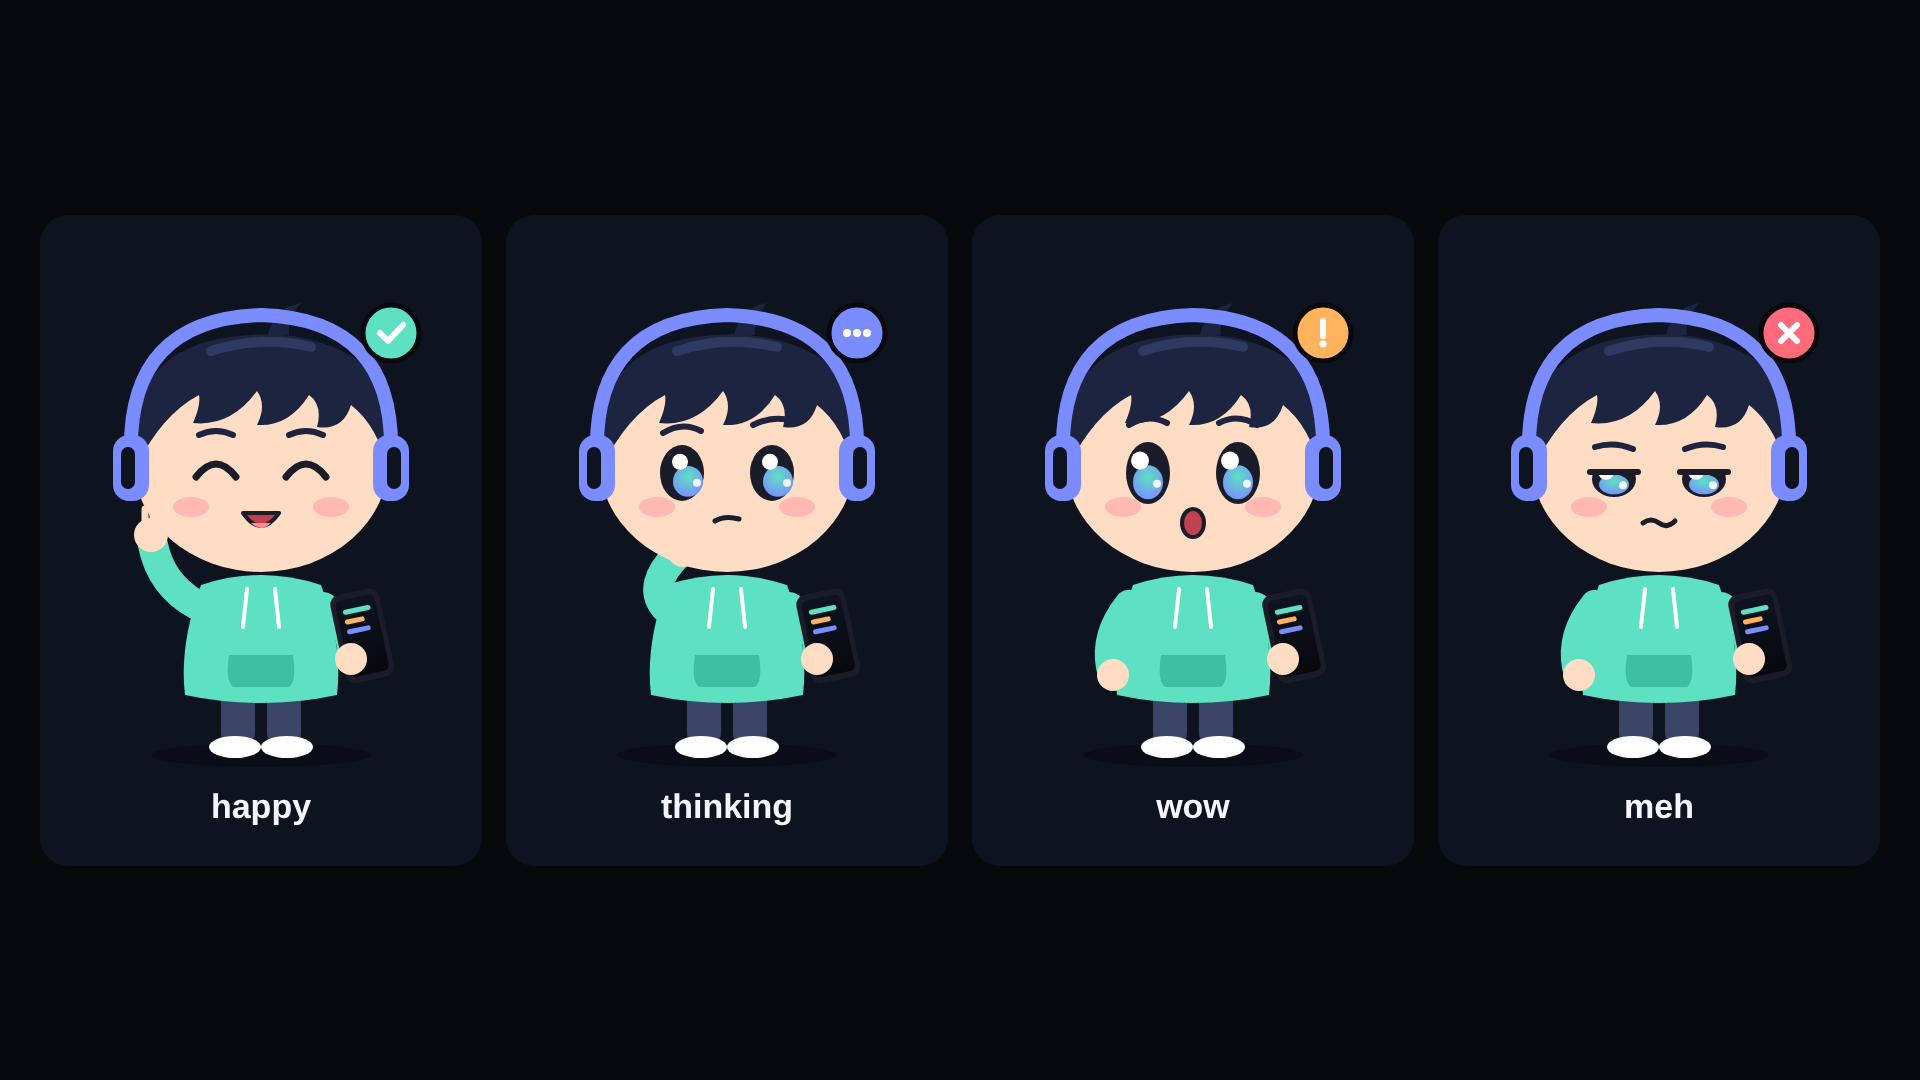
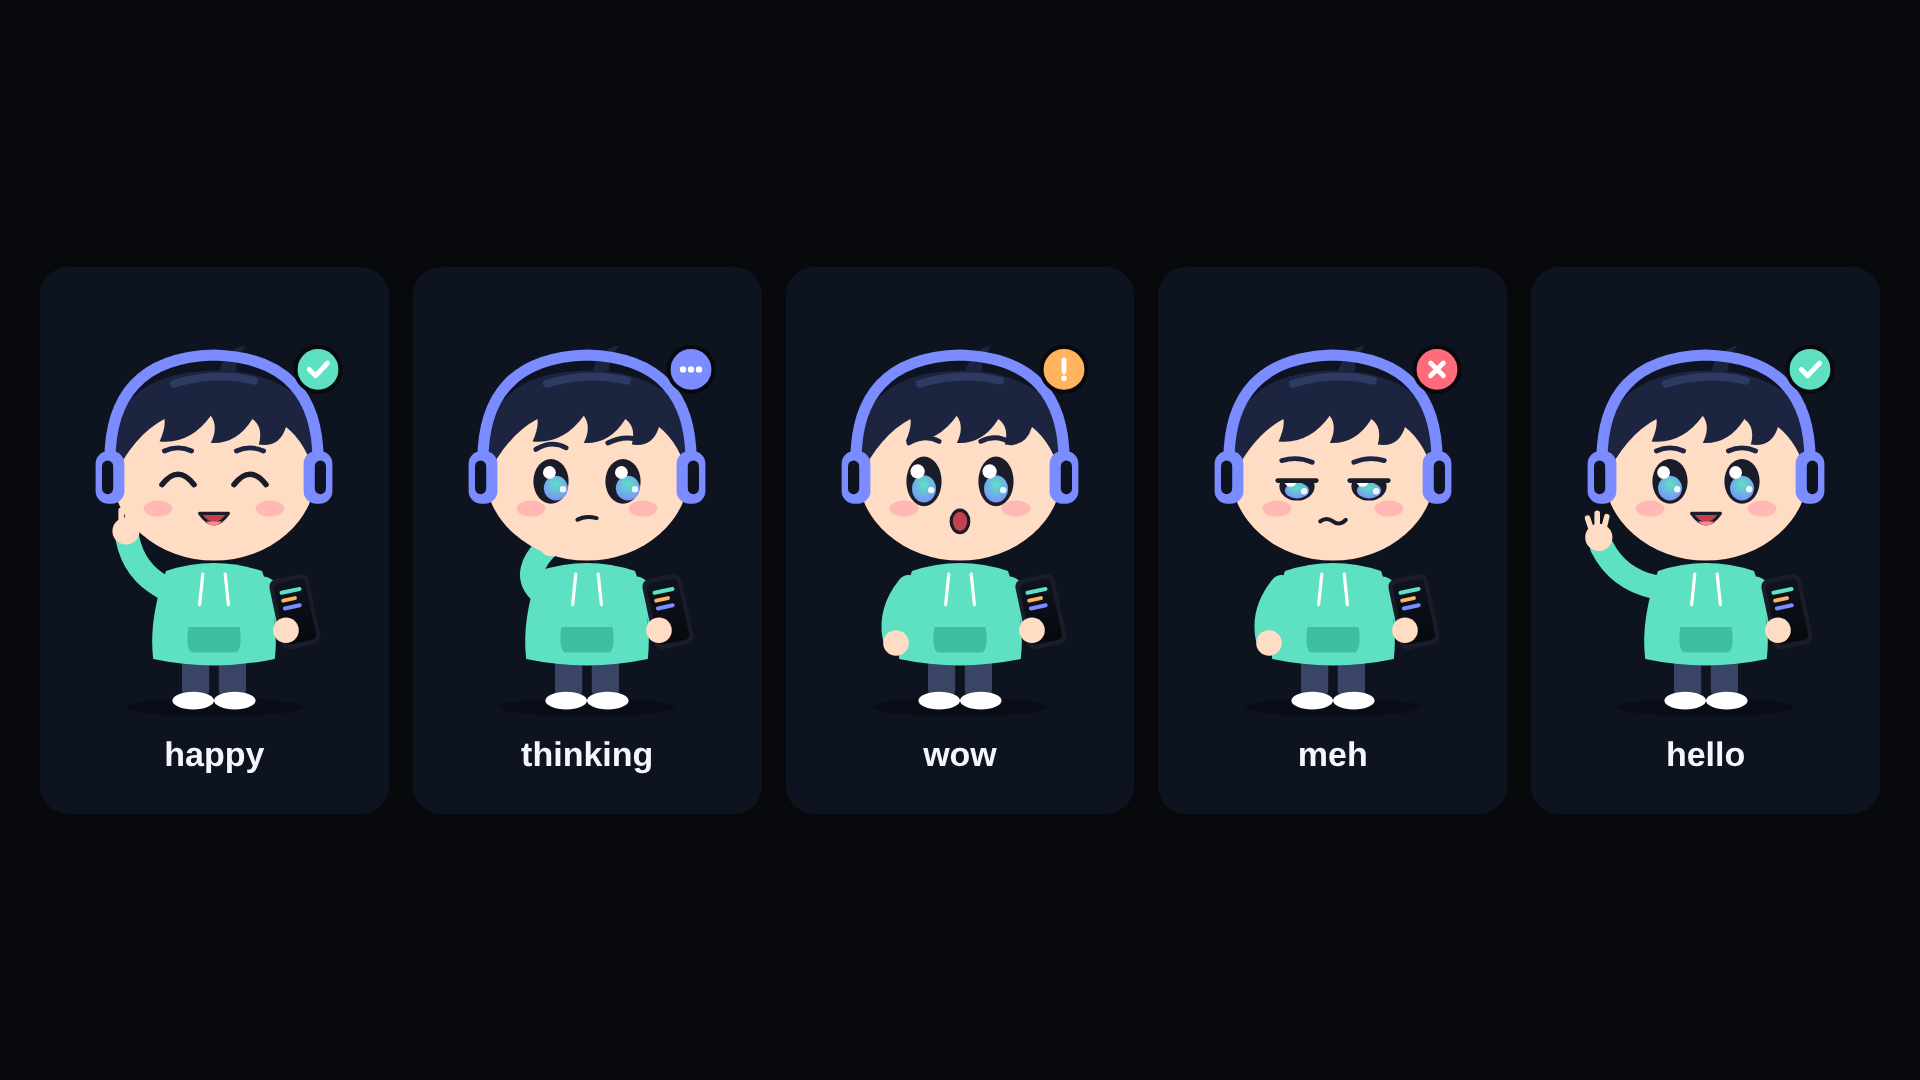
Animate mascot: blink and wave HyperFrames composition
Adds a 'hello' pose (open eyes, raised hand) and named SVG groups
(#body, #head, #free-arm, .eye) so the mascot can be animated.
video/mascot is a 6 s composition: pop-in, breathing, two waves with a
head tilt, four blinks and a 'Hi!' bubble. Generated by
scripts/make_mascot.mjs; lint and check pass.

Claude-Session: https://claude.ai/code/session_01Qtz8bHH1RiDNVd8xdByeQ3

diff --git a/video/mascot/index.html b/video/mascot/index.html
@@ -1,0 +1,143 @@
+<!doctype html>
+<html lang="en">
+  <head>
+    <meta charset="UTF-8" />
+    <meta name="viewport" content="width=1920, height=1080" />
+    <title>Mascot: blink and wave</title>
+    <!-- Generated by scripts/make_mascot.mjs; edit the generator, not this file. -->
+    <script src="vendor/gsap.min.js"></script>
+    <style>
+      @font-face { font-family: "Inter"; font-weight: 800; src: url("vendor/fonts/inter-latin-800-normal.woff2") format("woff2"); }
+      /* Brand tokens: mirror config/brand.yaml */
+      :root {
+        --bg: #07090d;
+        --bg-2: #0e1320;
+        --ink: #f4f6fb;
+        --ink-dim: #9aa3b5;
+        --accent: #5ee1c2;
+        --accent-2: #7a8cff;
+        --warn: #ffb35c;
+        --bad: #ff6b7a;
+      }
+      * { box-sizing: border-box; }
+      body { margin: 0; background: var(--bg); color: var(--ink); font-family: "Inter", sans-serif; }
+      #root { position: relative; width: 1920px; height: 1080px; overflow: hidden; background: radial-gradient(90% 80% at 50% 40%, var(--bg-2) 0%, var(--bg) 70%); }
+      #glow { position: absolute; left: 610px; top: 190px; width: 700px; height: 700px; border-radius: 50%; background: #134d48; filter: blur(140px); opacity: 0.6; }
+      #mascot { position: absolute; left: 598px; top: 70px; width: 724px; height: 940px; }
+      #mascot-svg { width: 100%; height: 100%; overflow: visible; }
+      #bubble {
+        position: absolute; left: 330px; top: 250px; padding: 22px 48px; border-radius: 48px;
+        background: var(--ink); color: var(--bg); font-weight: 800; font-size: 96px; line-height: 1;
+        box-shadow: 0 30px 80px rgba(0, 0, 0, 0.45);
+      }
+      #bubble::after {
+        content: ""; position: absolute; right: -18px; bottom: 6px; border: 22px solid transparent;
+        border-left-color: var(--ink); border-bottom-color: var(--ink); transform: rotate(-10deg);
+      }
+    </style>
+  </head>
+  <body>
+    <div id="root" data-composition-id="mascot" data-start="0" data-width="1920" data-height="1080" data-duration="6">
+      <div id="glow"></div>
+      <div id="mascot"><svg xmlns="http://www.w3.org/2000/svg" viewBox="0 0 400 520" id="mascot-svg" role="img" aria-label="Phone Consensus mascot, hello">
+  <title>Consensus Kid (hello)</title>
+  <defs>
+    <radialGradient id="iris" cx="0.5" cy="0.35" r="0.7">
+      <stop offset="0" stop-color="#5ee1c2"/><stop offset="1" stop-color="#7a8cff"/>
+    </radialGradient>
+    <linearGradient id="screen" x1="0" y1="0" x2="0" y2="1">
+      <stop offset="0" stop-color="#0e1320"/><stop offset="1" stop-color="#07090d"/>
+    </linearGradient>
+  </defs>
+  <ellipse cx="200" cy="500" rx="110" ry="12" fill="#000" opacity="0.28"/>
+  <!-- legs -->
+  <g id="body">
+  <rect x="160" y="430" width="34" height="62" rx="14" fill="#3a4566"/>
+  <rect x="206" y="430" width="34" height="62" rx="14" fill="#3a4566"/>
+  <ellipse cx="174" cy="492" rx="26" ry="11" fill="#ffffff"/>
+  <ellipse cx="226" cy="492" rx="26" ry="11" fill="#ffffff"/>
+  <!-- body / hoodie -->
+  <path d="M140 330 Q200 310 260 330 Q282 390 276 440 Q200 456 124 440 Q118 390 140 330 Z" fill="#5ee1c2"/>
+  <path d="M168 400 H232 Q236 426 228 432 H172 Q164 426 168 400 Z" fill="#3fbfa2"/>
+  <path d="M186 334 L182 372 M214 334 L218 372" stroke="#ffffff" stroke-width="4" stroke-linecap="round"/>
+  <g id="free-arm"><path d="M136 350 Q90 340 70 300" fill="none" stroke="#5ee1c2" stroke-width="30" stroke-linecap="round"/>
+         <circle cx="66" cy="288" r="17" fill="#ffdcc4"/>
+         <path d="M56 276 l-4 -12 M64 272 v-14 M73 274 l3 -12" stroke="#ffdcc4" stroke-width="7" stroke-linecap="round"/></g>
+  <!-- phone hand (generic phone, not a real model) -->
+  <path d="M262 352 Q296 372 290 404" fill="none" stroke="#5ee1c2" stroke-width="30" stroke-linecap="round"/>
+  <g transform="rotate(-12 300 380)">
+    <rect x="276" y="336" width="50" height="90" rx="10" fill="#1a1d29"/>
+    <rect x="281" y="342" width="40" height="78" rx="6" fill="url(#screen)"/>
+    <rect x="287" y="352" width="28" height="5" rx="2.5" fill="#5ee1c2"/>
+    <rect x="287" y="362" width="20" height="5" rx="2.5" fill="#ffb35c"/>
+    <rect x="287" y="372" width="24" height="5" rx="2.5" fill="#7a8cff"/>
+  </g>
+  <circle cx="290" cy="404" r="16" fill="#ffdcc4"/>
+  <!-- head -->
+  <g id="head">
+  <ellipse cx="200" cy="300" rx="34" ry="14" fill="#f5c3a6"/>
+  <ellipse cx="200" cy="205" rx="128" ry="112" fill="#ffdcc4"/>
+  <!-- hair -->
+  <path d="M74 214 Q60 98 168 82 Q252 70 306 112 Q342 146 328 216 Q316 170 290 150 Q282 176 256 172 Q262 150 248 140 Q228 172 196 170 Q206 150 196 136 Q170 172 132 168 Q140 150 138 140 Q100 160 74 214 Z" fill="#1d2440"/>
+  <path d="M150 96 Q200 80 250 92" fill="none" stroke="#2f3a63" stroke-width="10" stroke-linecap="round"/>
+  <path d="M206 82 Q214 52 240 48 Q226 64 228 80 Z" fill="#1d2440"/>
+  <!-- headphones -->
+  <path d="M70 200 Q66 64 200 60 Q334 64 330 200" fill="none" stroke="#7a8cff" stroke-width="14" stroke-linecap="round"/>
+  <rect x="52" y="180" width="36" height="66" rx="16" fill="#7a8cff"/>
+  <rect x="312" y="180" width="36" height="66" rx="16" fill="#7a8cff"/>
+  <rect x="60" y="192" width="14" height="42" rx="7" fill="#0e1320"/>
+  <rect x="326" y="192" width="14" height="42" rx="7" fill="#0e1320"/>
+  <!-- face -->
+  <path d="M138 180 Q155 172 172 180" fill="none" stroke="#1d2440" stroke-width="6" stroke-linecap="round"/><path d="M228 180 Q245 172 262 180" fill="none" stroke="#1d2440" stroke-width="6" stroke-linecap="round"/>
+  <g id="eye-l" class="eye">
+    <ellipse cx="155" cy="218" rx="22" ry="28" fill="#1a1d29"/>
+    <ellipse cx="155" cy="226.4" rx="15" ry="15.400000000000002" fill="url(#iris)"/>
+    <circle cx="147" cy="206.8" r="8" fill="#ffffff"/>
+    <circle cx="164" cy="227.8" r="4" fill="#ffffff" opacity="0.9"/>
+    </g>
+  <g id="eye-r" class="eye">
+    <ellipse cx="245" cy="218" rx="22" ry="28" fill="#1a1d29"/>
+    <ellipse cx="245" cy="226.4" rx="15" ry="15.400000000000002" fill="url(#iris)"/>
+    <circle cx="237" cy="206.8" r="8" fill="#ffffff"/>
+    <circle cx="254" cy="227.8" r="4" fill="#ffffff" opacity="0.9"/>
+    </g>
+  <ellipse cx="130" cy="252" rx="18" ry="10" fill="#ff9aa8" opacity="0.55"/>
+  <ellipse cx="270" cy="252" rx="18" ry="10" fill="#ff9aa8" opacity="0.55"/>
+  <path d="M182 258 Q200 284 218 258 Z" fill="#c2414f" stroke="#1a1d29" stroke-width="4" stroke-linejoin="round"/>
+      <path d="M190 268 Q200 278 210 268" fill="#ff8a96"/>
+  <g transform="translate(330 78)"><circle r="28" fill="#5ee1c2" stroke="#07090d" stroke-width="5"/><path d="M-11 0 L-3 8 L12 -8" fill="none" stroke="#ffffff" stroke-width="6" stroke-linecap="round" stroke-linejoin="round"/></g>
+  </g>
+  </g>
+</svg>
+</div>
+      <div id="bubble">Hi!</div>
+    </div>
+    <script>
+      const tl = gsap.timeline({ paused: true });
+      // Pop in, then breathe (even repeat count so it settles back to rest).
+      tl.from("#mascot", { y: 80, scale: 0.85, opacity: 0, duration: 0.6, ease: "back.out(1.7)", transformOrigin: "50% 100%" }, 0);
+      tl.to("#body", { y: -6, duration: 0.75, ease: "sine.inOut", yoyo: true, repeat: 5 }, 0.6);
+      // Wave: swing the raised arm around the shoulder, head tilts along.
+      const wave = (t, swings) => {
+        tl.to("#free-arm", { rotation: -18, duration: 0.18, ease: "sine.out", svgOrigin: "136 350" }, t);
+        tl.to("#free-arm", { rotation: 8, duration: 0.24, ease: "sine.inOut", yoyo: true, repeat: swings * 2 - 1, svgOrigin: "136 350" }, t + 0.18);
+        tl.to("#free-arm", { rotation: 0, duration: 0.2, ease: "sine.out", svgOrigin: "136 350" }, t + 0.18 + swings * 0.48);
+        tl.to("#head", { rotation: -4, duration: 0.4, ease: "sine.inOut", svgOrigin: "200 300" }, t);
+        tl.to("#head", { rotation: 0, duration: 0.4, ease: "sine.inOut", svgOrigin: "200 300" }, t + 0.18 + swings * 0.48);
+      };
+      wave(0.8, 3);
+      wave(3.9, 2);
+      // Blinks (one double blink).
+      for (const t of [1.5, 3.1, 3.35, 5.4]) {
+        tl.to(".eye", { scaleY: 0.1, transformOrigin: "50% 50%", duration: 0.07, ease: "power1.in" }, t);
+        tl.to(".eye", { scaleY: 1, transformOrigin: "50% 50%", duration: 0.09, ease: "power1.out" }, t + 0.07);
+      }
+      // Speech bubble.
+      tl.from("#bubble", { scale: 0, opacity: 0, transformOrigin: "100% 100%", duration: 0.45, ease: "back.out(2)" }, 0.9);
+      tl.to("#bubble", { scale: 0.9, opacity: 0, transformOrigin: "100% 100%", duration: 0.3, ease: "power1.in" }, 5.5);
+      tl.set({}, {}, 6);
+      window.__timelines = window.__timelines || {};
+      window.__timelines["mascot"] = tl;
+    </script>
+  </body>
+</html>

diff --git a/video/assets/mascot/contact-sheet.html b/video/assets/mascot/contact-sheet.html
@@ -1,5 +1,5 @@
 <!doctype html><meta charset="utf-8"><style>
-body{margin:0;background:#07090d;display:grid;grid-template-columns:repeat(4,1fr);gap:24px;padding:40px;width:1840px;height:1000px;align-items:center;font:600 34px sans-serif;color:#f4f6fb}
+body{margin:0;background:#07090d;display:grid;grid-template-columns:repeat(5,1fr);gap:24px;padding:40px;width:1840px;height:1000px;align-items:center;font:600 34px sans-serif;color:#f4f6fb}
 figure{margin:0;background:#0e1320;border-radius:28px;display:flex;flex-direction:column;align-items:center;justify-content:center;padding:40px 0}
-img{width:400px}figcaption{margin-top:12px}</style>
-<figure><img src="mascot-happy.svg"><figcaption>happy</figcaption></figure><figure><img src="mascot-thinking.svg"><figcaption>thinking</figcaption></figure><figure><img src="mascot-wow.svg"><figcaption>wow</figcaption></figure><figure><img src="mascot-meh.svg"><figcaption>meh</figcaption></figure>
+img{width:320px}figcaption{margin-top:12px}</style>
+<figure><img src="mascot-happy.svg"><figcaption>happy</figcaption></figure><figure><img src="mascot-thinking.svg"><figcaption>thinking</figcaption></figure><figure><img src="mascot-wow.svg"><figcaption>wow</figcaption></figure><figure><img src="mascot-meh.svg"><figcaption>meh</figcaption></figure><figure><img src="mascot-hello.svg"><figcaption>hello</figcaption></figure>
